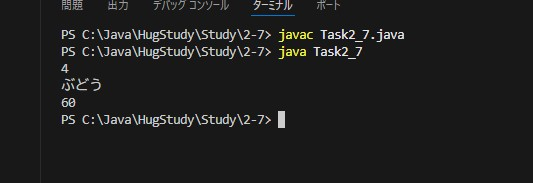
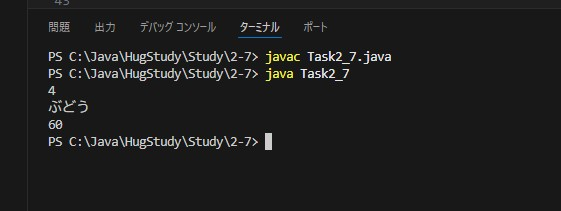
2-7修正

diff --git a/Study/2-7/Task2_7.java b/Study/2-7/Task2_7.java
@@ -8,14 +8,14 @@ public class Task2_7 {
 
        
        // ② ①で作成した配列の要素数を出力して下さい。
-       System.out.println(+ country.length);
+       System.out.println(country.length);
 
         /* ③下記の値を保持した、要素数3のStringクラスの配列strArrayを作成しなさい。
         *   1番目（先頭）の要素に 「りんご」 を代入
         *   2番目の要素に 「もも」 を代入
         *   3番目の要素に 「ぶどう」 を代入
         */
-       String[] strArray = new String[4];
+       String[] strArray = new String[3];
        strArray[0] = "りんご";
        strArray[1] = "もも";
        strArray[2] = "ぶどう";
@@ -26,12 +26,12 @@ public class Task2_7 {
 
 
         /* ⑤下記の処理について、何をしているのかコメントを記入して下さい。
-        *  [intクラスの配列 intArray を定義]
+        *  [10, 20, 30, 40, 50 を要素の値（初期値）とする、要素数 5 のintArray という名前のint型配列を宣言。]
         */
         int[] intArray = { 10, 20, 30, 40, 50 };
 
         // ⑥下記の処理について、何をしているのかコメントを記入して下さい。
-        // [添え字（インデックス）が 0と4 の要素の合計値を表示]
+        // [添え字（インデックス）が 0の要素10 と4の要素50 の合計値を表示]
         System.out.println(intArray[0] + intArray[4]);
 
 
